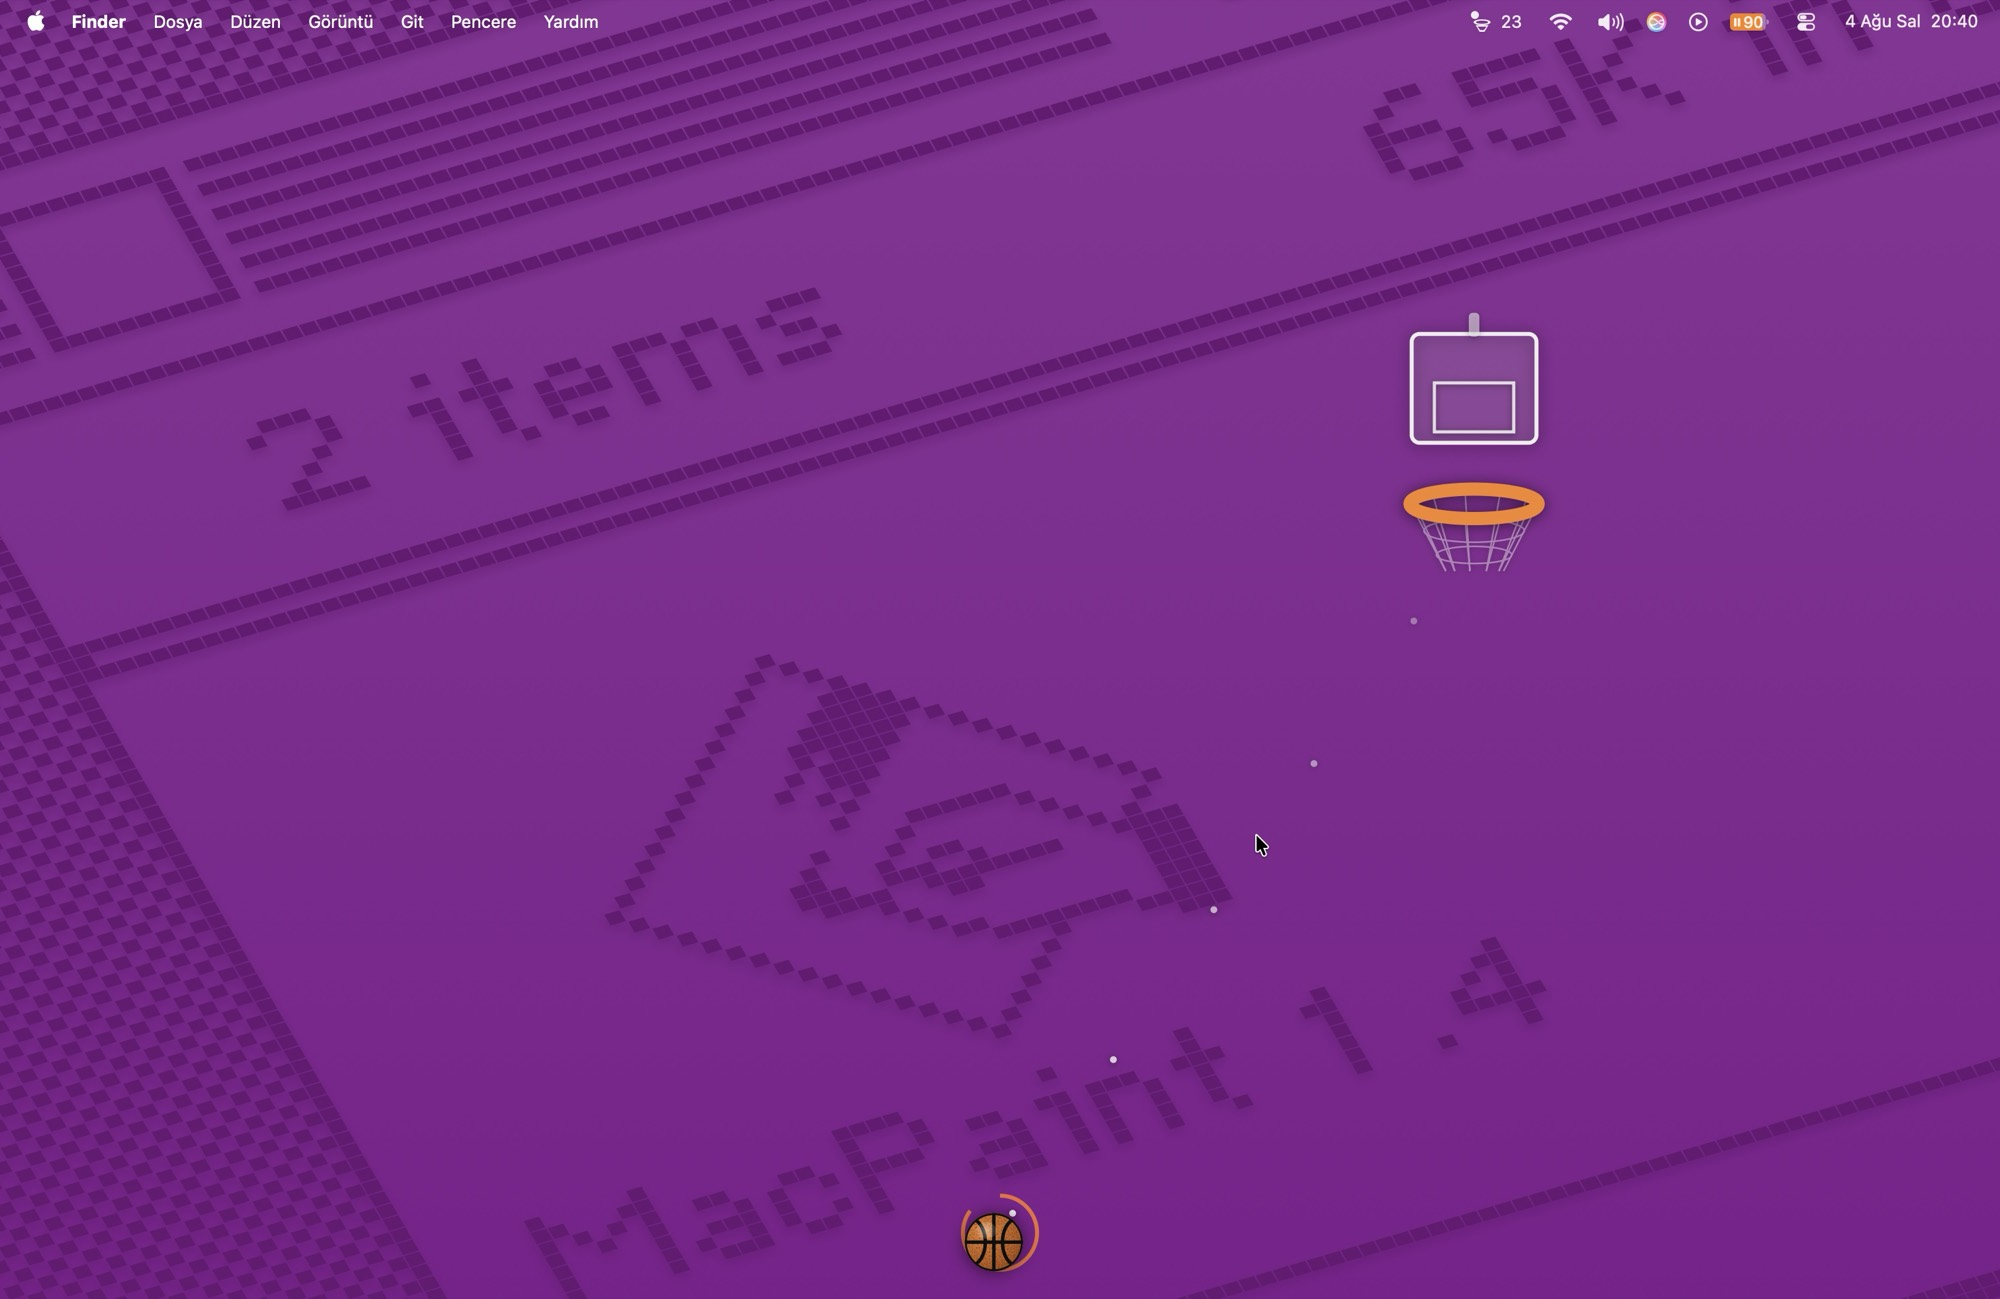
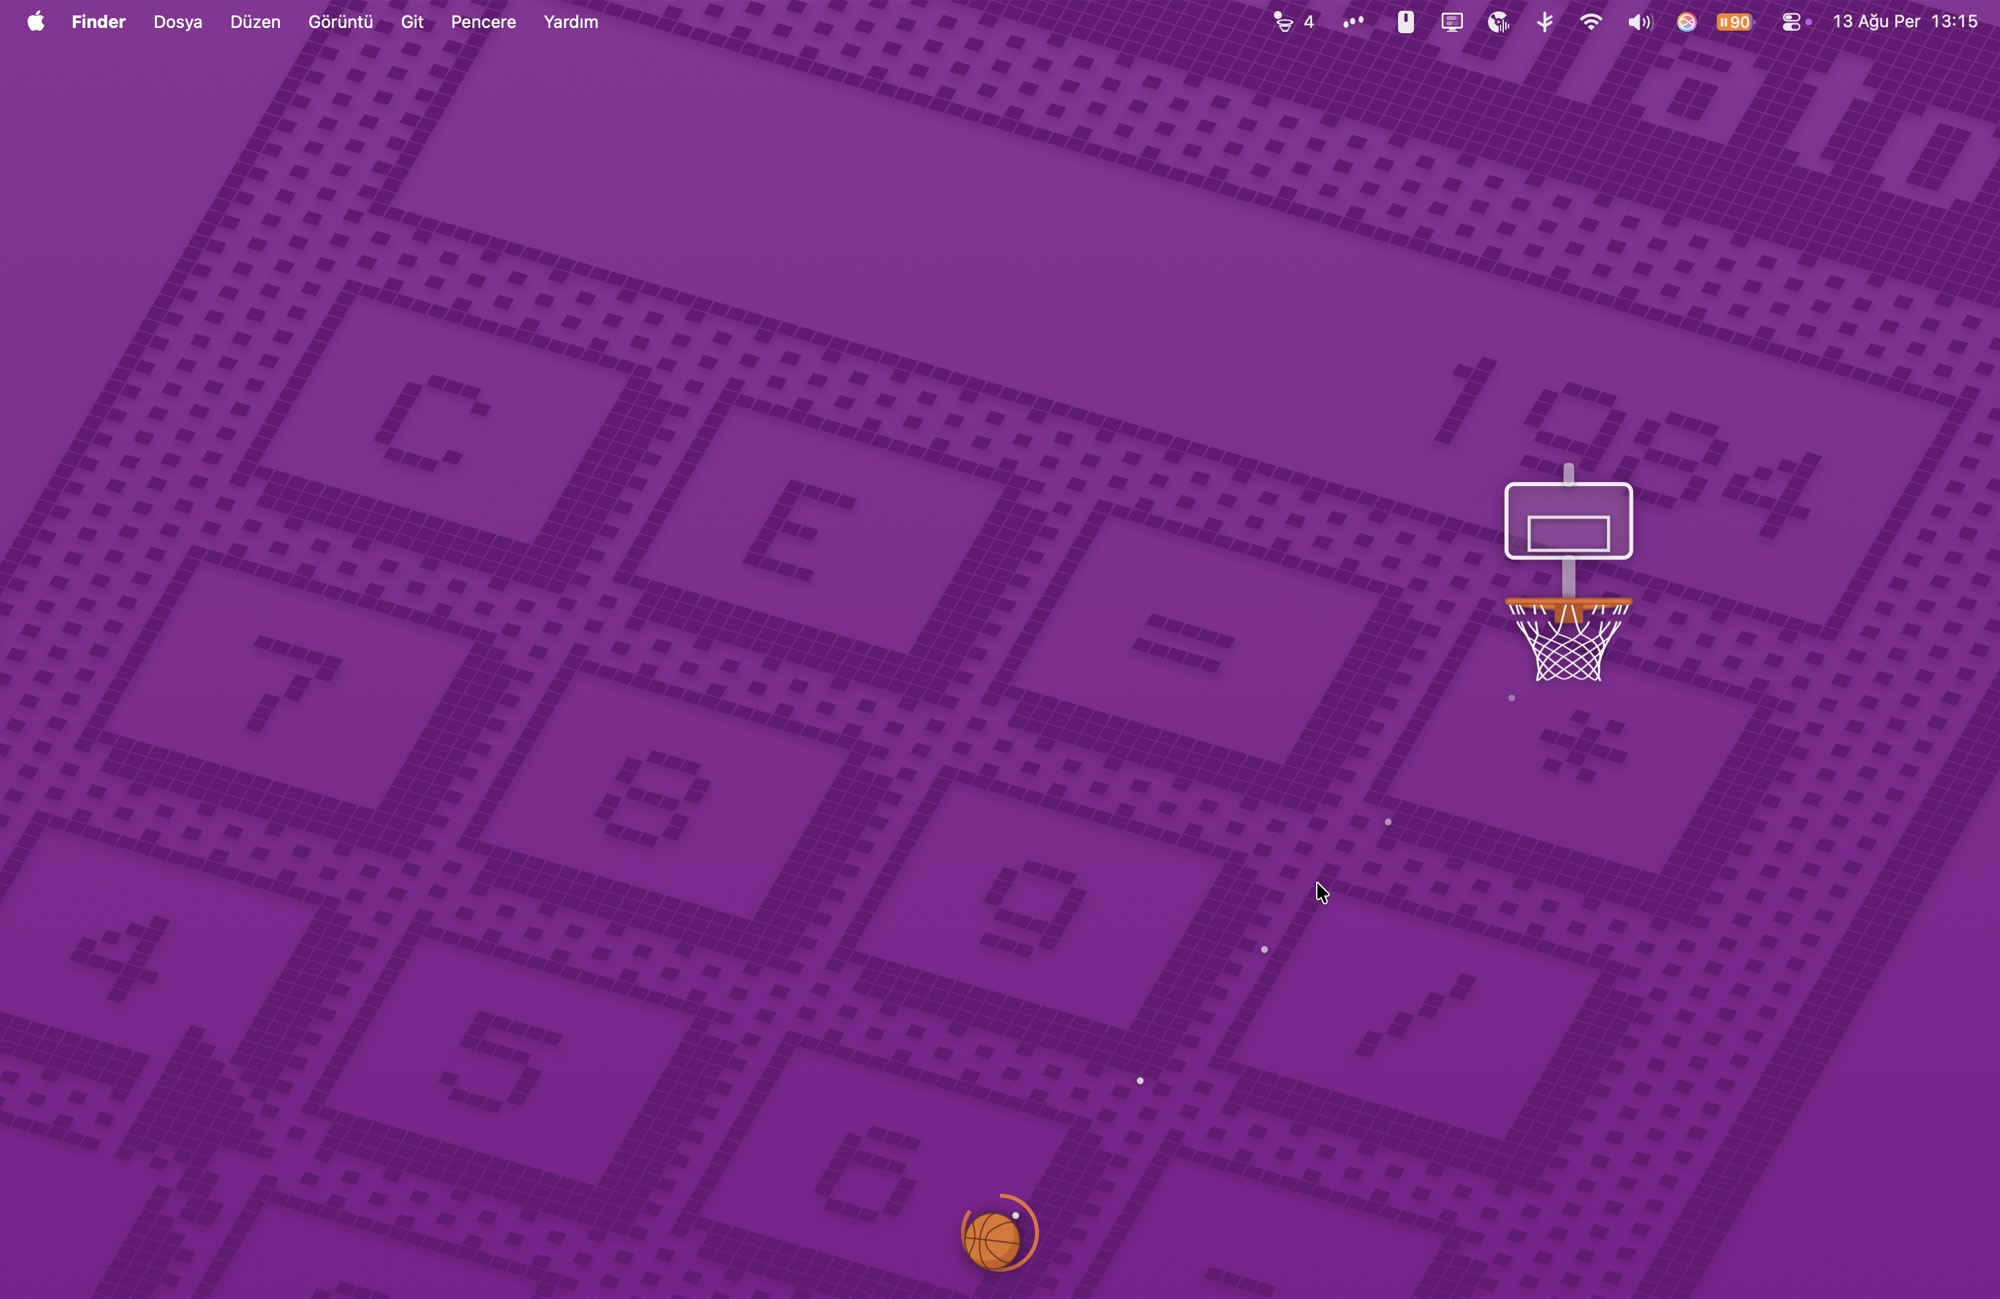
Site: sync from the app repository (3ae8fc3)

diff --git a/index.html b/index.html
@@ -143,7 +143,7 @@
       score, and everything else — new ball, reset, mute, volume, theme, always on top, open at login —
       is one click away in its menu.
     </p>
-    <img class="menubar-shot" src="img/menubar-shot.png" alt="A slice of the real macOS menu bar: the Hoop Hoop icon carrying a score of 23, sitting among the other menu-bar items alongside the battery and the clock.">
+    <img class="menubar-shot" src="img/menubar-shot.png" alt="A slice of the real macOS menu bar: the Hoop Hoop icon carrying a score of 4, sitting among the other menu-bar items alongside the battery and the clock.">
 
     <ul class="points">
       <li>
